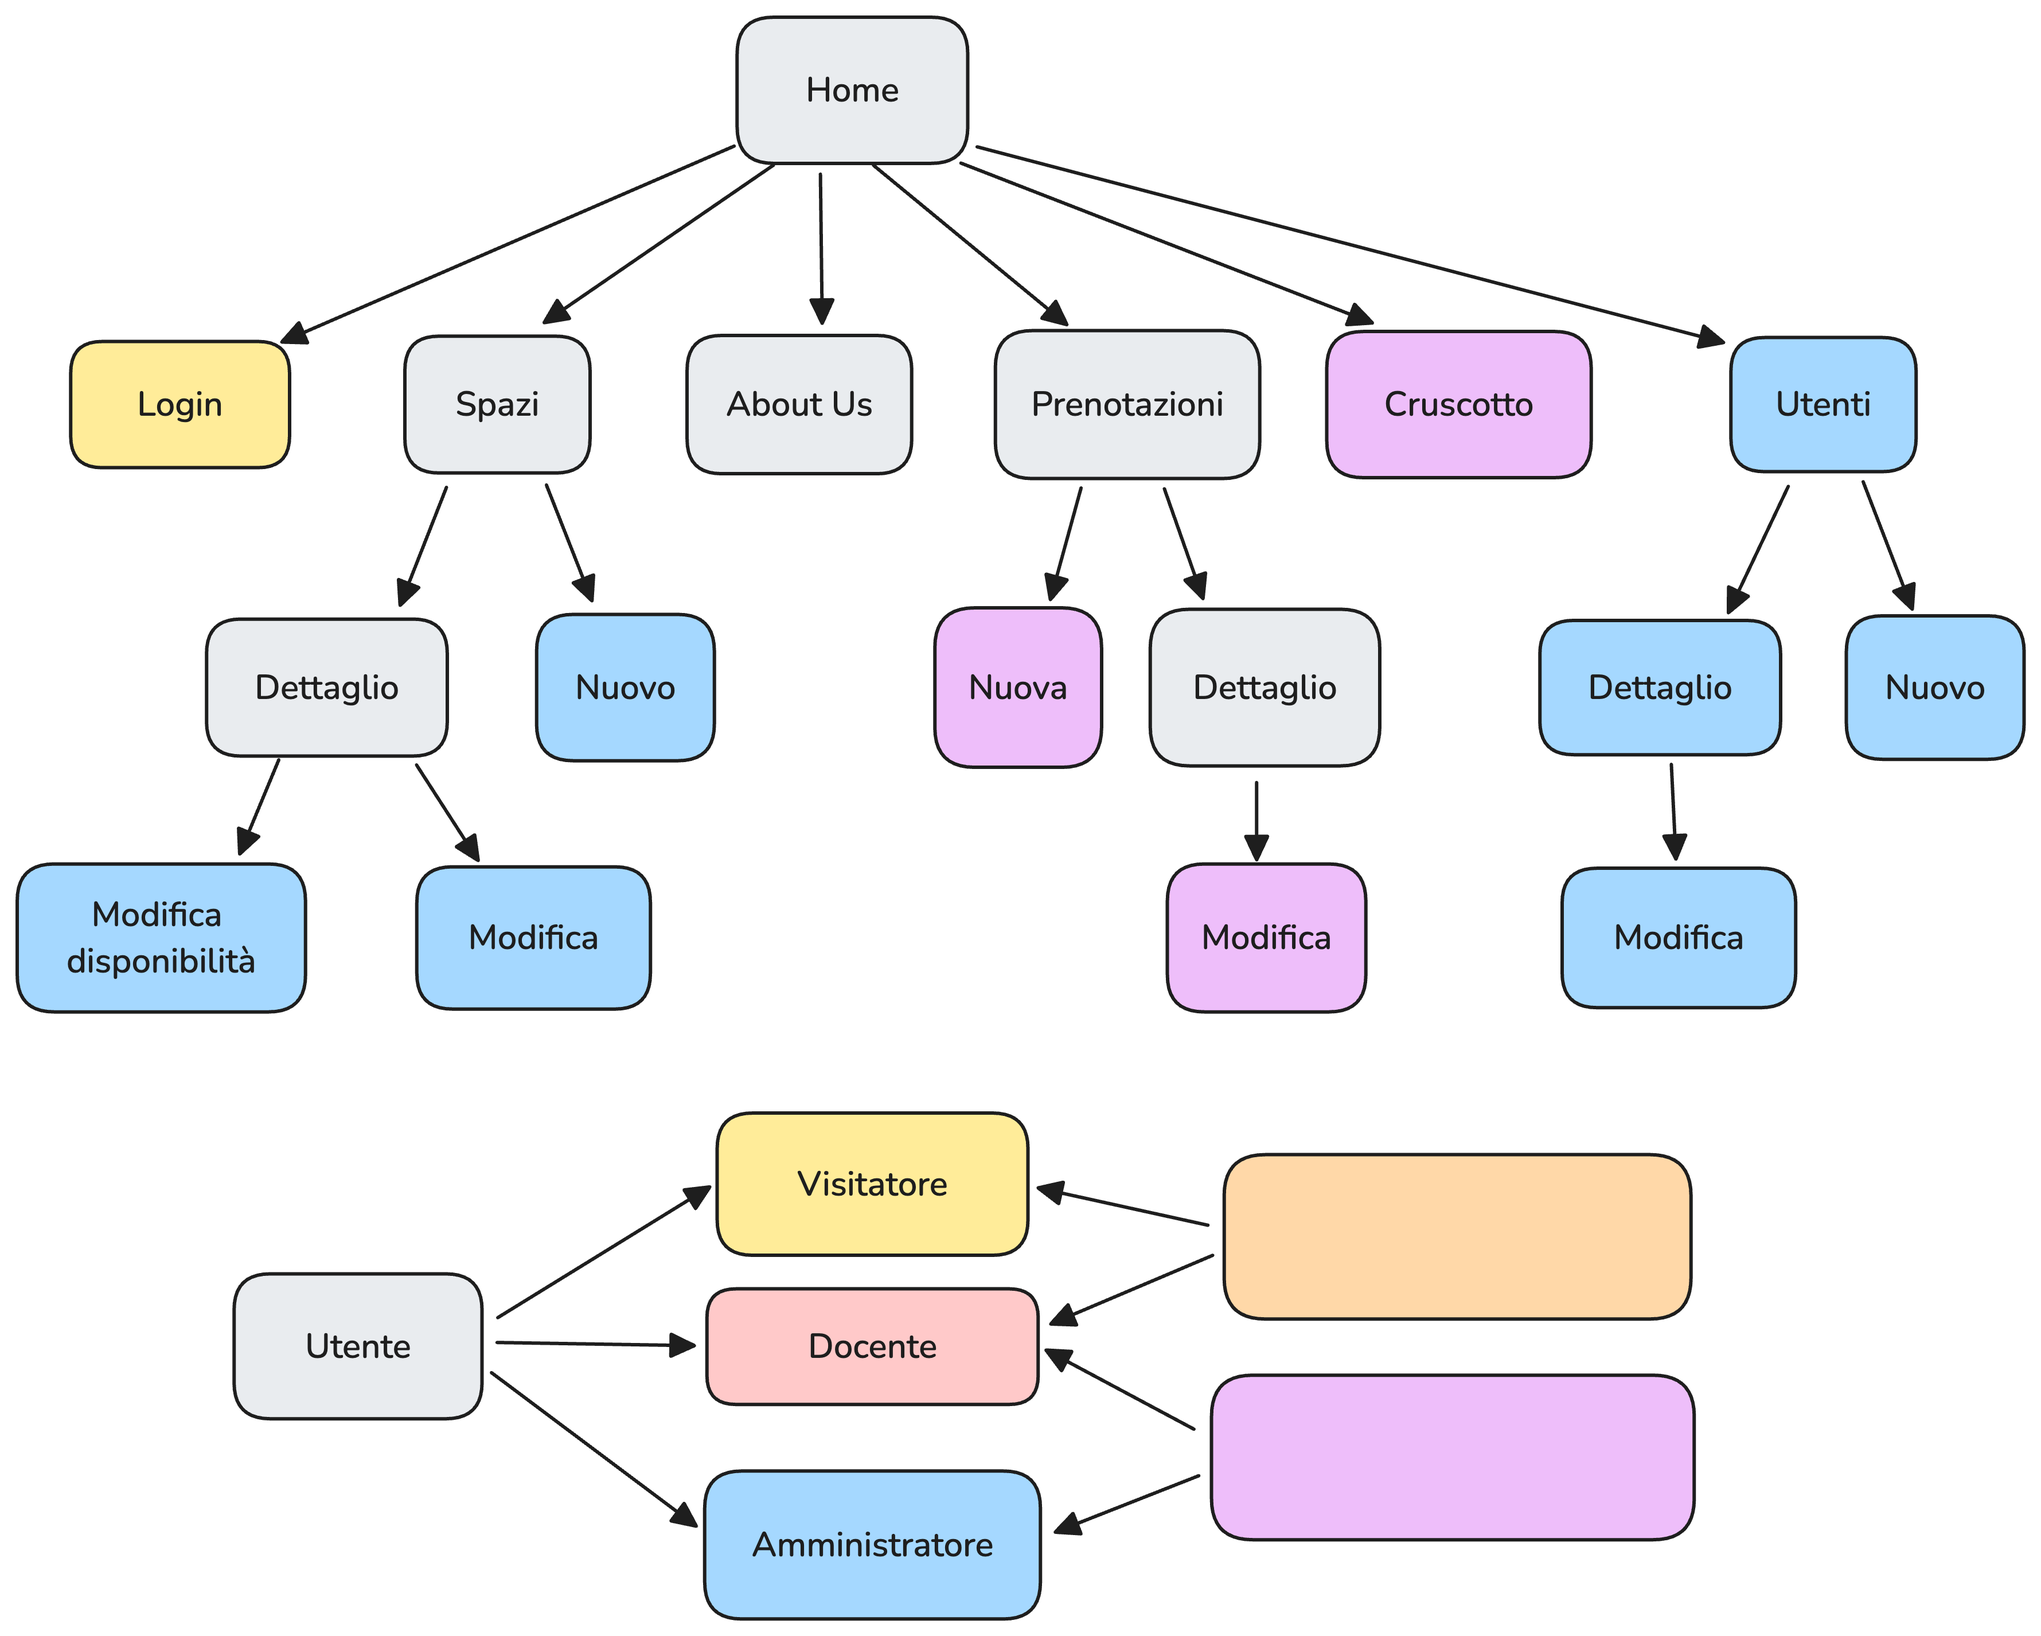
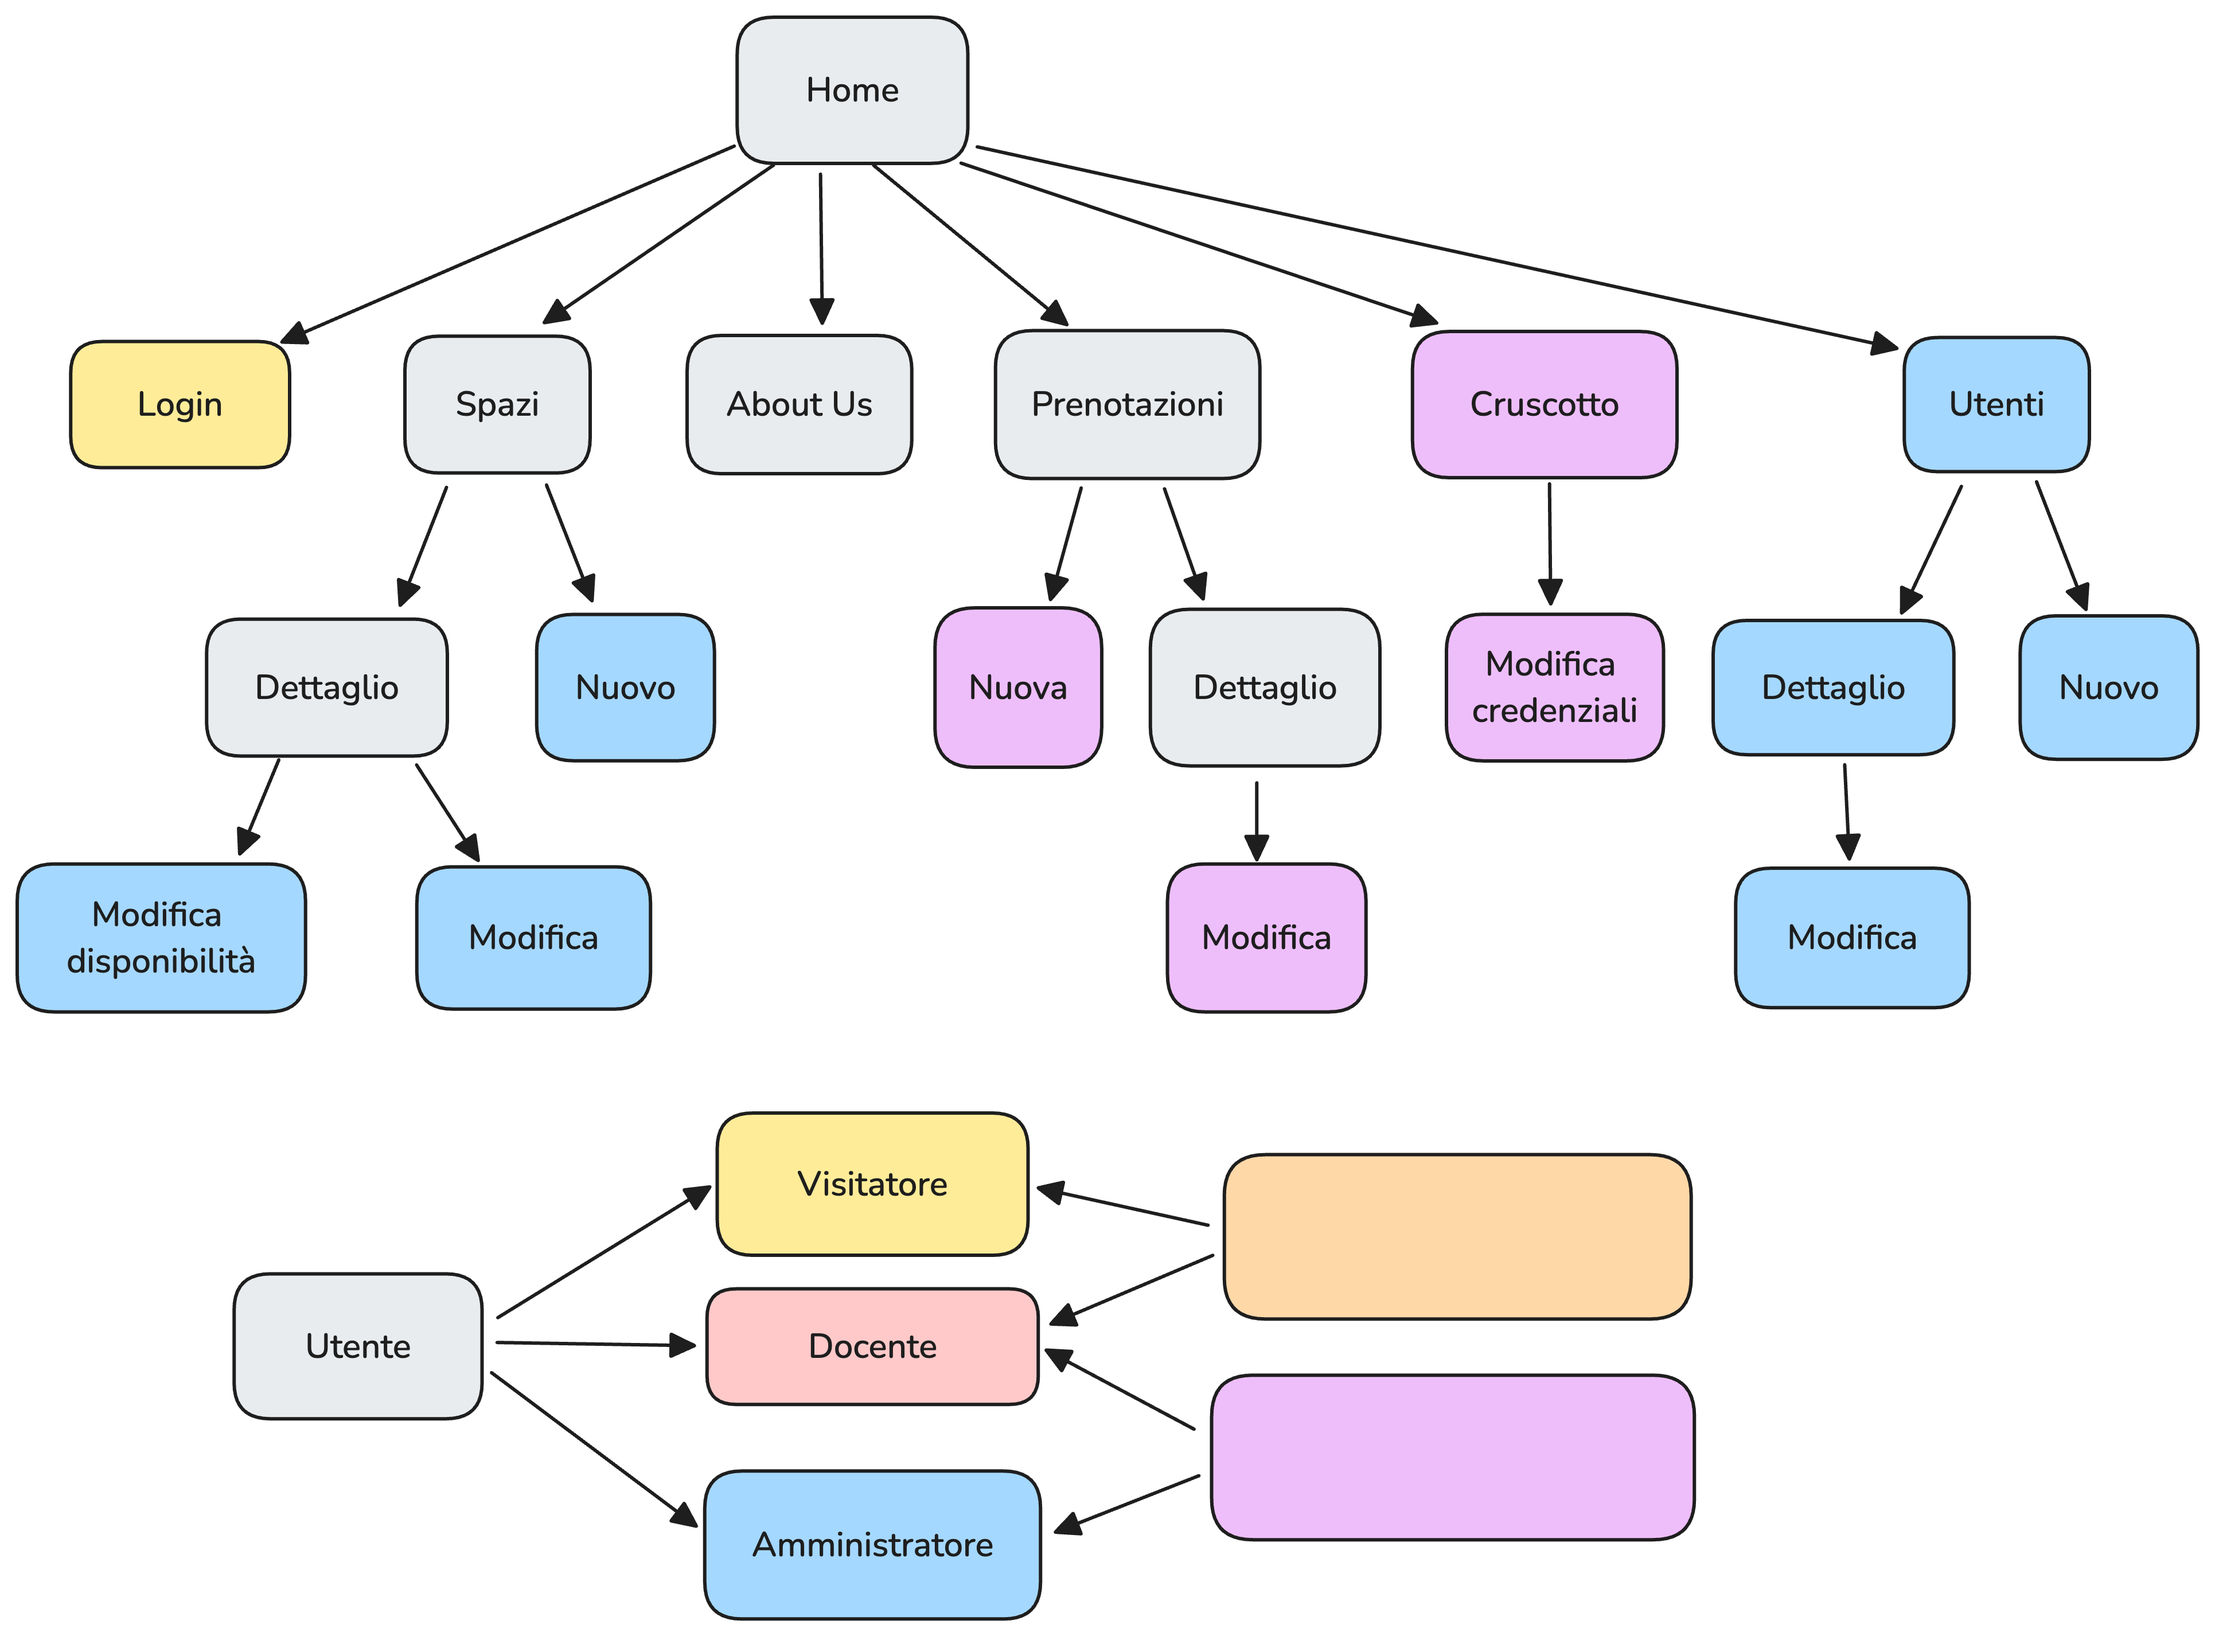
little fix

diff --git a/RelazioneGrigoVerde/progettazione.tex b/RelazioneGrigoVerde/progettazione.tex
@@ -296,6 +296,11 @@ Di seguito sono descritte le pagine del sito:
 	      contiene il riepilogo delle prenotazioni future o in corso dell'utente
 	      oltre che alle azioni rapide che l'utente può compiere;
 
+	      \begin{itemize}
+		      \item \textbf{Modifica credenziali}: pagina per modificare le
+		            credenziali dell'utente autenticato, compresa la password;
+	      \end{itemize}
+
 	\item \textbf{Spazi}: pagina di visualizzazione degli spazi verdi della
 	      scuola e delle aree ricreative, è possibile filtrare gli spazi;
 
